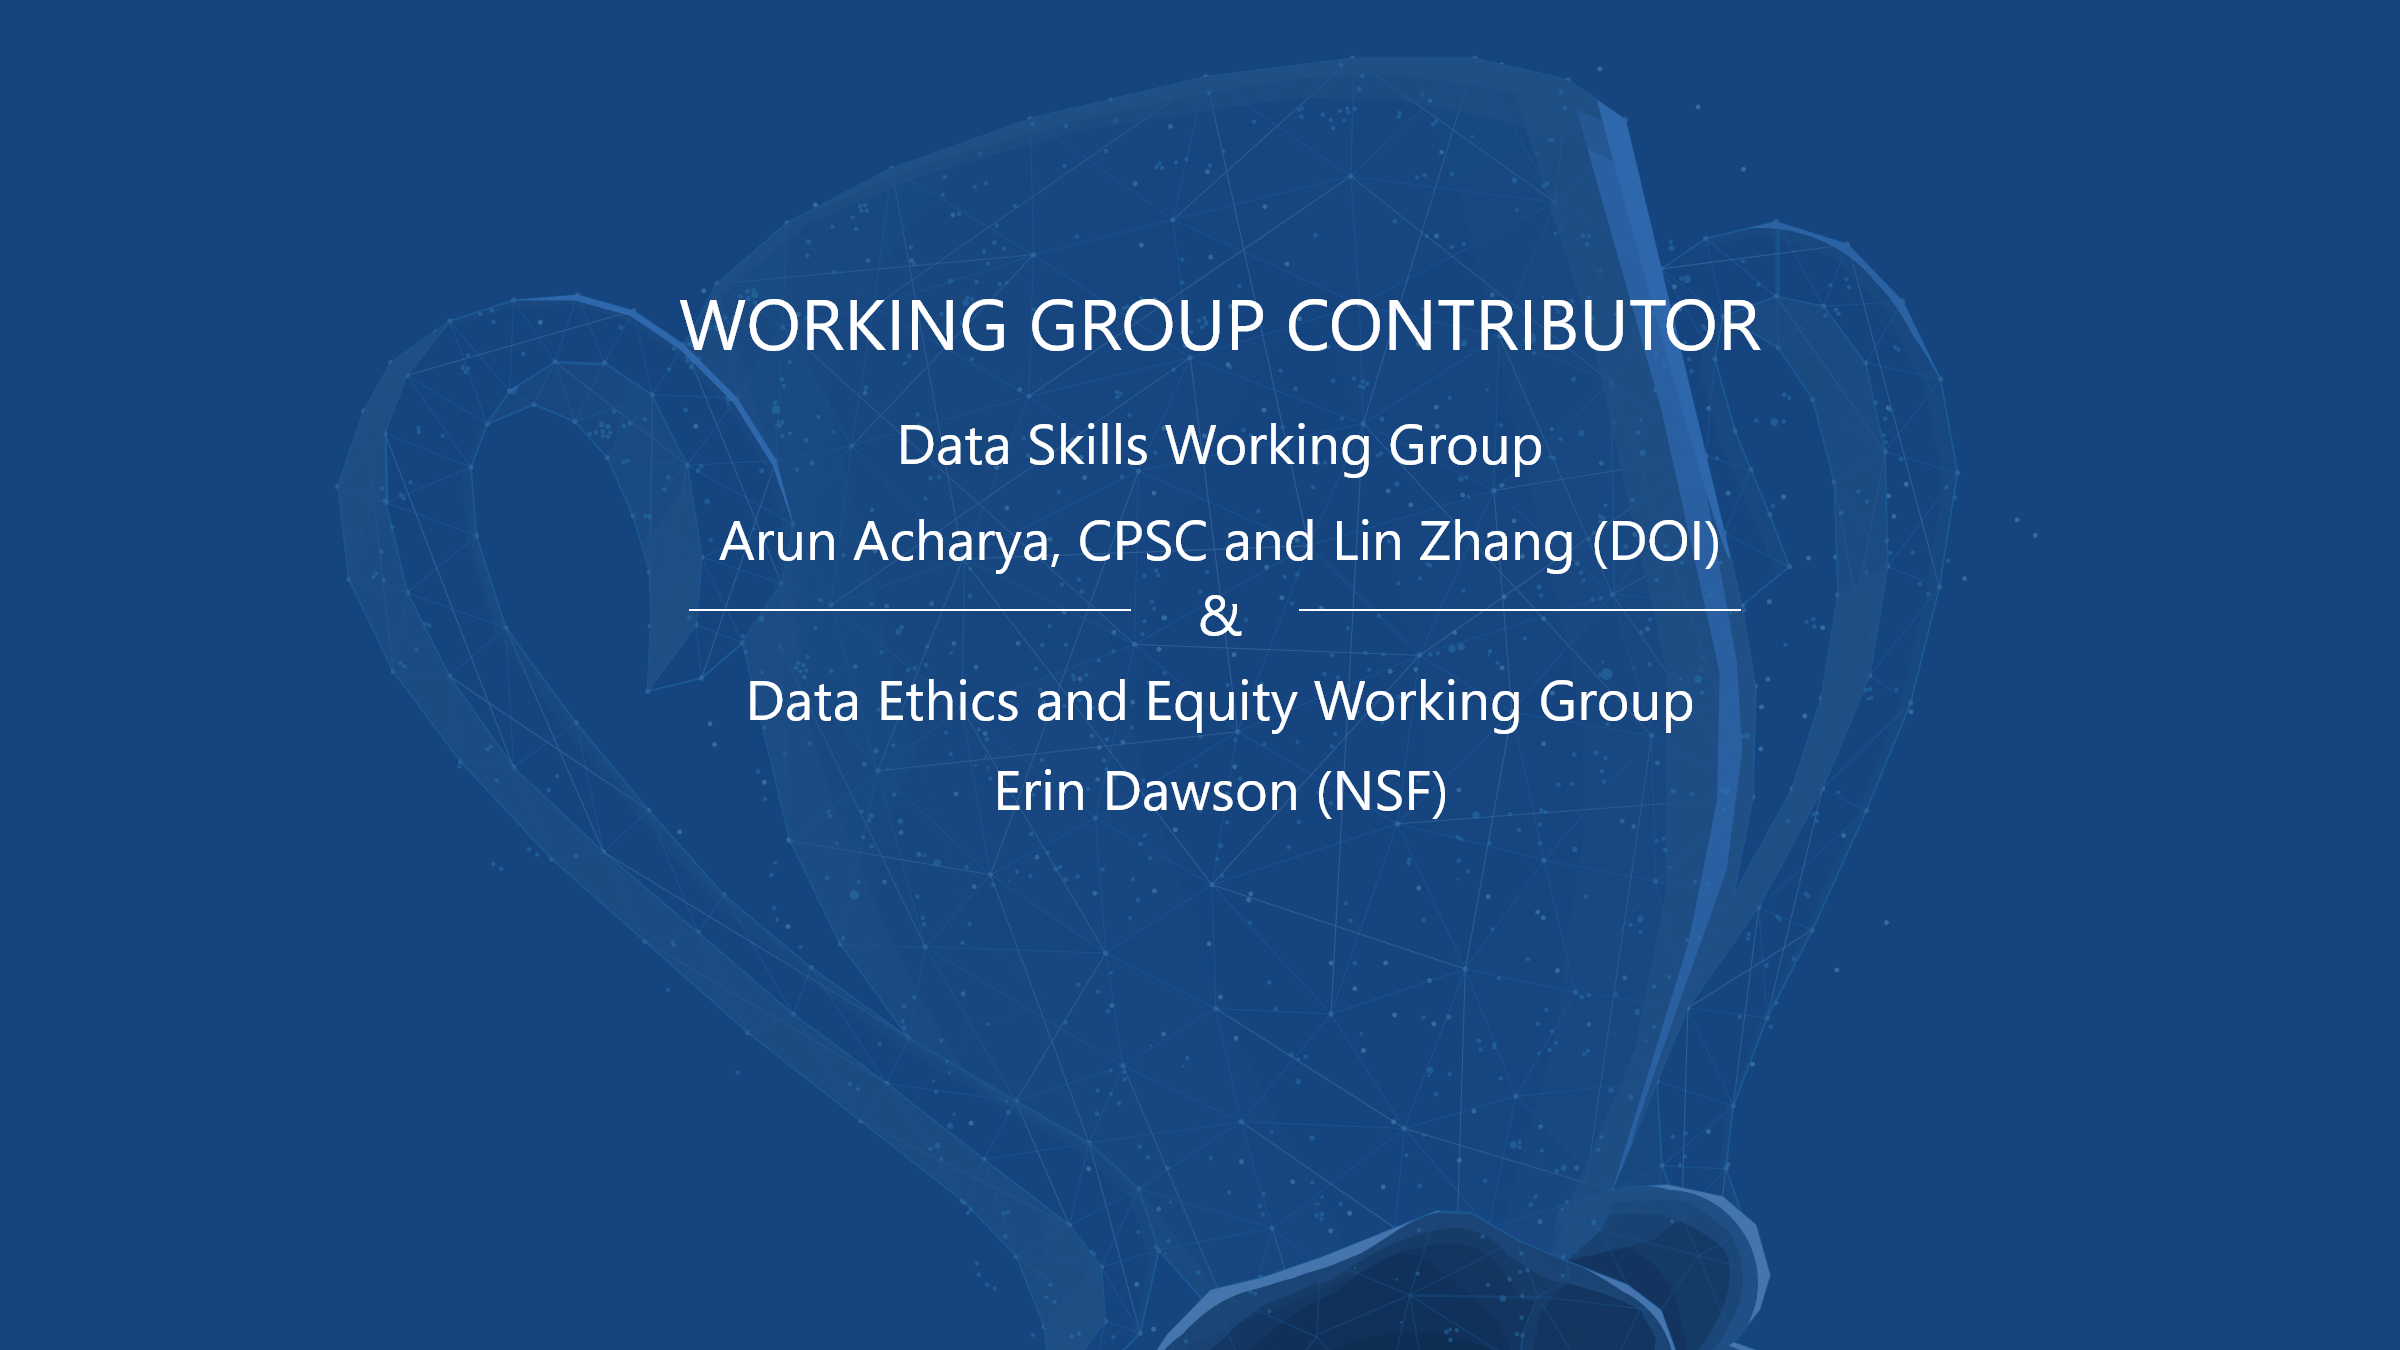
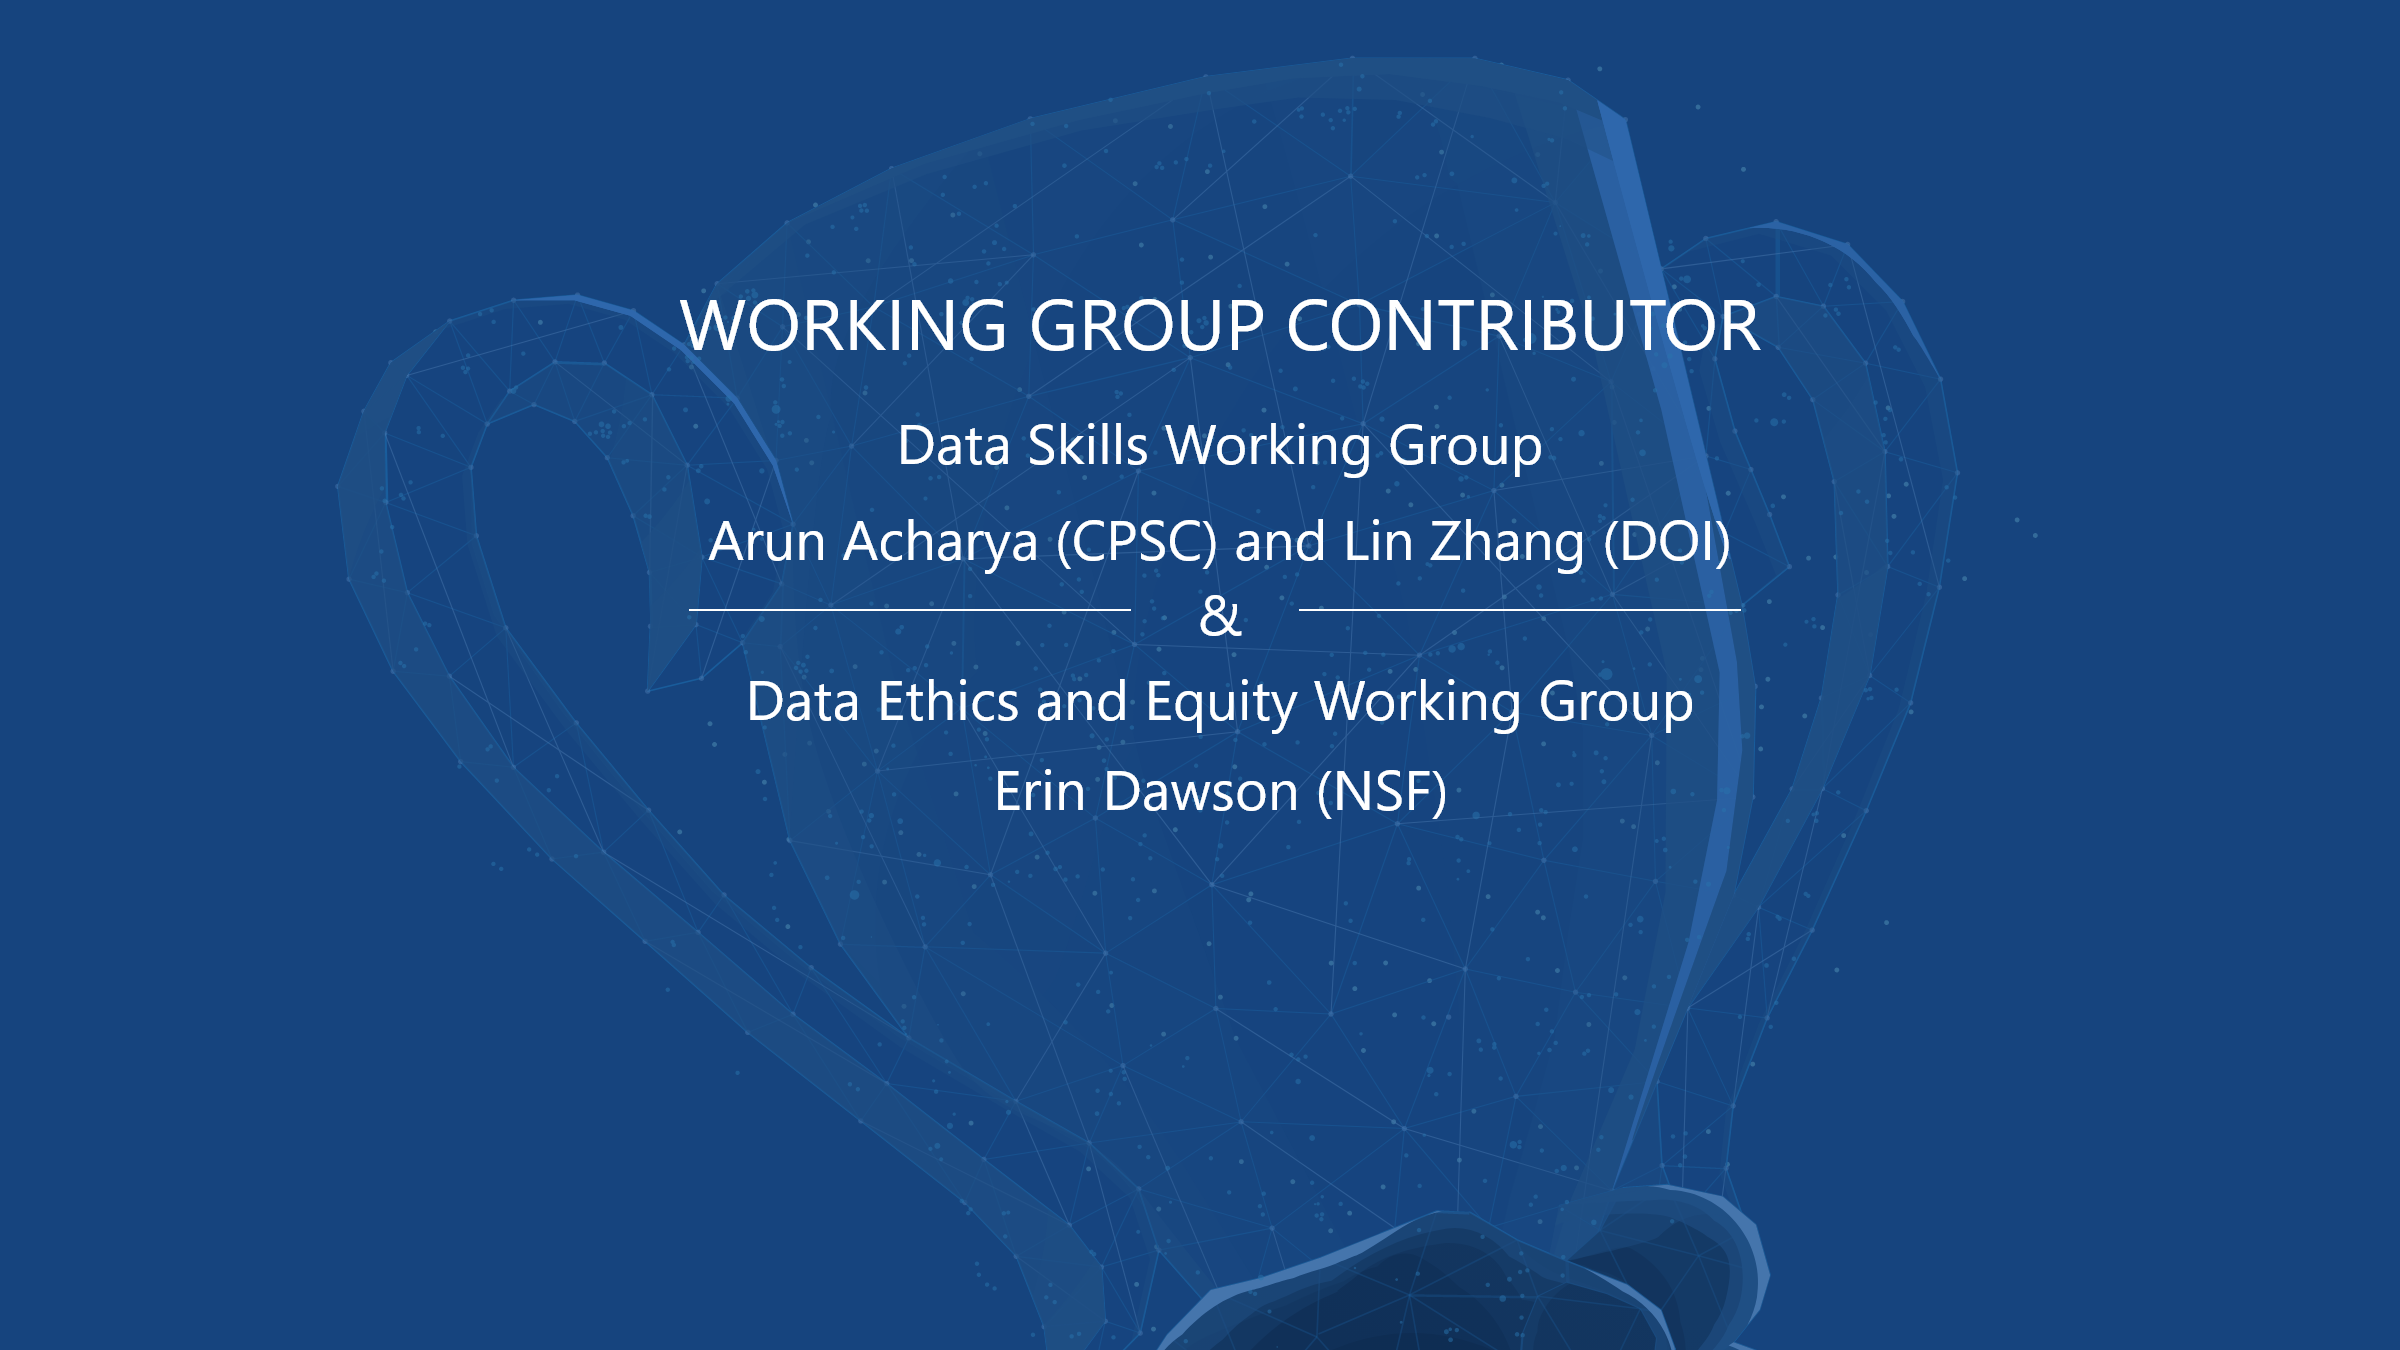
..

Changed region(s): [[0.2812, 0.3733, 0.7188, 0.4356]]

diff --git a/_pages/awards-program.md b/_pages/awards-program.md
@@ -23,13 +23,13 @@ permalink: /awards-program/
             <section class="carousel-screen usa-graphic-list padding-y-4 awards-abstract-background5" role="img" aria-label="Distinguished Achievement in Federal Data Katherine Tom (FRS) & Sharon Boivin, Layne Morrison, and Soumya Sathya (Education)">
             </section>
 
-            <section class="carousel-screen usa-graphic-list padding-y-4 awards-abstract-background6" role="img" aria-label="Working Group Contributor Data Skills Working Group Arun Acharya, CPSC and Lin Zhang, DOI & Data Ethics and Equity Working Group Erin Dawson, NSF">
+            <section class="carousel-screen usa-graphic-list padding-y-4 awards-abstract-background6" role="img" aria-label="Working Group Contributor Data Skills Working Group Arun Acharya (CPSC) and Lin Zhang (DOI) & Data Ethics and Equity Working Group Erin Dawson (NSF)">
             </section>
 
-            <section class="carousel-screen usa-graphic-list padding-y-4 awards-abstract-background7" role="img" aria-label="Working Group Contributor Data Sharing Working Group Monique Eleby, Census & Data Inventory Working Group Brian Richenbach, State">
+            <section class="carousel-screen usa-graphic-list padding-y-4 awards-abstract-background7" role="img" aria-label="Working Group Contributor Data Sharing Working Group Monique Eleby (Census) & Data Inventory Working Group Brian Richenbach (State)">
             </section>
 
-             <section class="carousel-screen usa-graphic-list padding-y-4 awards-abstract-background8" role="img" aria-label="Committee Superior Contributor Large Agency Committee Dorothy Aronson, NSF & Small Agency Committee Katherine Tom, FRB and Geoffrey Nieboer, FDIC">
+             <section class="carousel-screen usa-graphic-list padding-y-4 awards-abstract-background8" role="img" aria-label="Committee Superior Contributor Large Agency Committee Dorothy Aronson (NSF) & Small Agency Committee Katherine Tom, FRB and Geoffrey Nieboer (FDIC)">
             </section>
 
             <section class="circle-container">
@@ -38,9 +38,9 @@ permalink: /awards-program/
                 <div class="circle" aria-label="slide 3 Team of the Year Operation Welcome Nica (DOS)" tabindex=0></div>
                 <div class="circle" aria-label="slide 4 Data Champion of the Year John Stevens (FRS) & Andrea Palm (HHS)" tabindex=0></div>
                 <div class="circle" aria-label="slide 5 Distinguished Achievement in Federal Data Katherine Tom (FRS) & Sharon Boivin, Layne Morrison, and Soumya Sathya (Education)" tabindex=0></div>
-                <div class="circle" aria-label="slide 6 Working Group Contributor Data Skills Working Group Arun Acharya, CPSC and Lin Zhang, DOI & Data Ethics and Equity Working Group Erin Dawson, NSF" tabindex=0></div>
-                <div class="circle" aria-label="slide 7 Working Group Contributor Data Sharing Working Group Monique Eleby, Census & Data Inventory Working Group Brian Richenbach, State" tabindex=0></div>
-                <div class="circle" aria-label="slide 8 Committee Superior Contributor Large Agency Committee Dorothy Aronson, NSF & Small Agency Committee Katherine Tom, FRB and Geoffrey Nieboer, FDIC" tabindex=0></div>
+                <div class="circle" aria-label="slide 6 Working Group Contributor Data Skills Working Group Arun Acharya (CPSC) and Lin Zhang (DOI) & Data Ethics and Equity Working Group Erin Dawson (NSF)" tabindex=0></div>
+                <div class="circle" aria-label="slide 7 Working Group Contributor Data Sharing Working Group Monique Eleby (Census) & Data Inventory Working Group Brian Richenbach (State)" tabindex=0></div>
+                <div class="circle" aria-label="slide 8 Committee Superior Contributor Large Agency Committee Dorothy Aronson (NSF) & Small Agency Committee Katherine Tom, FRB and Geoffrey Nieboer (FDIC)" tabindex=0></div>
             </section>
             <div class="left-arrow">
                 <span class="chevron left" aria-label="Previous slide" tabindex=0></span>
